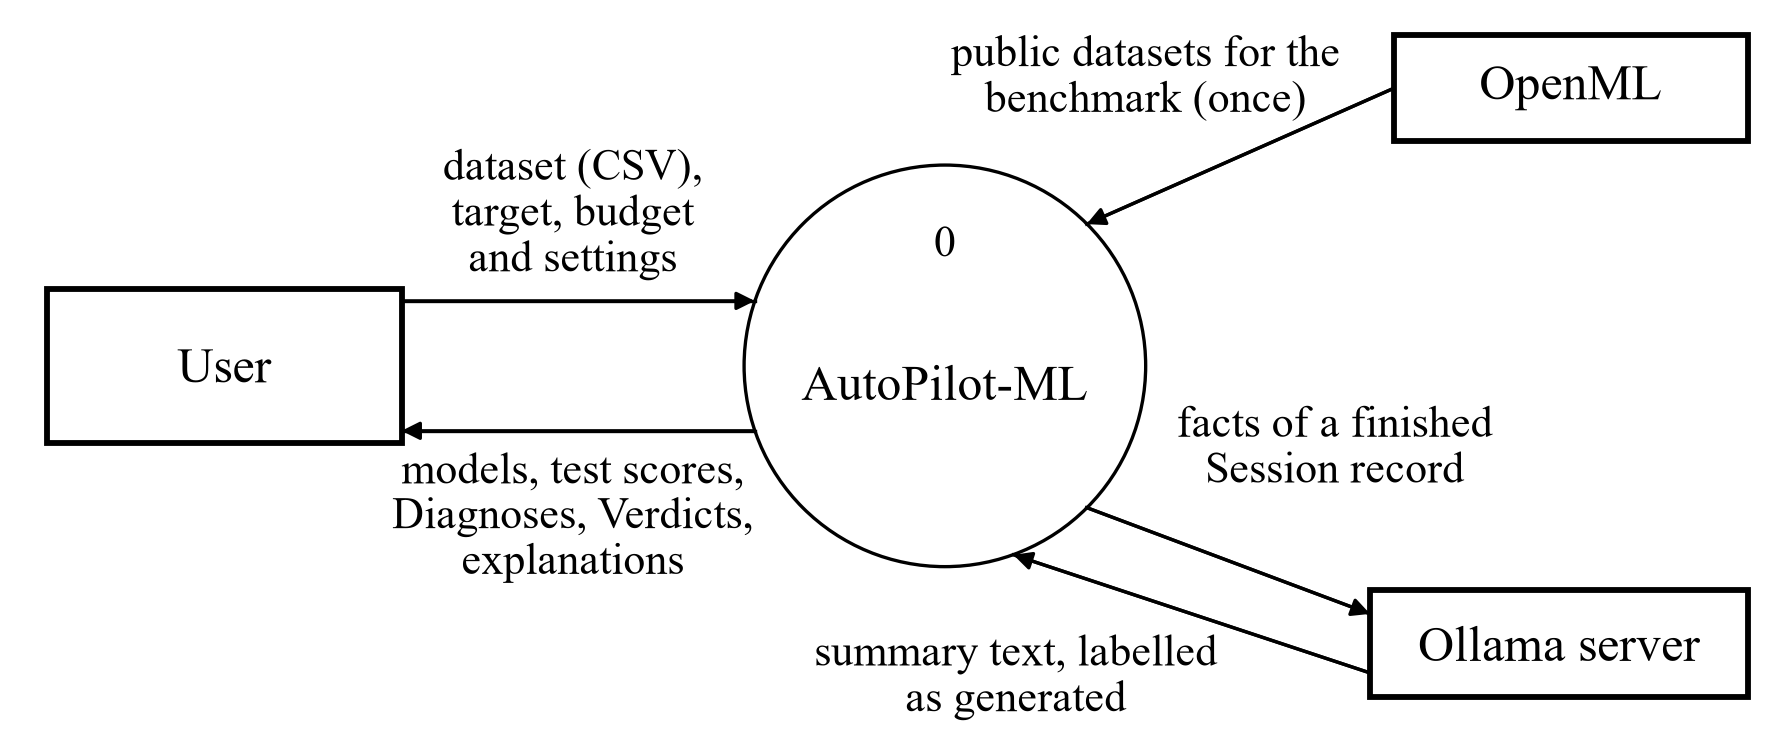
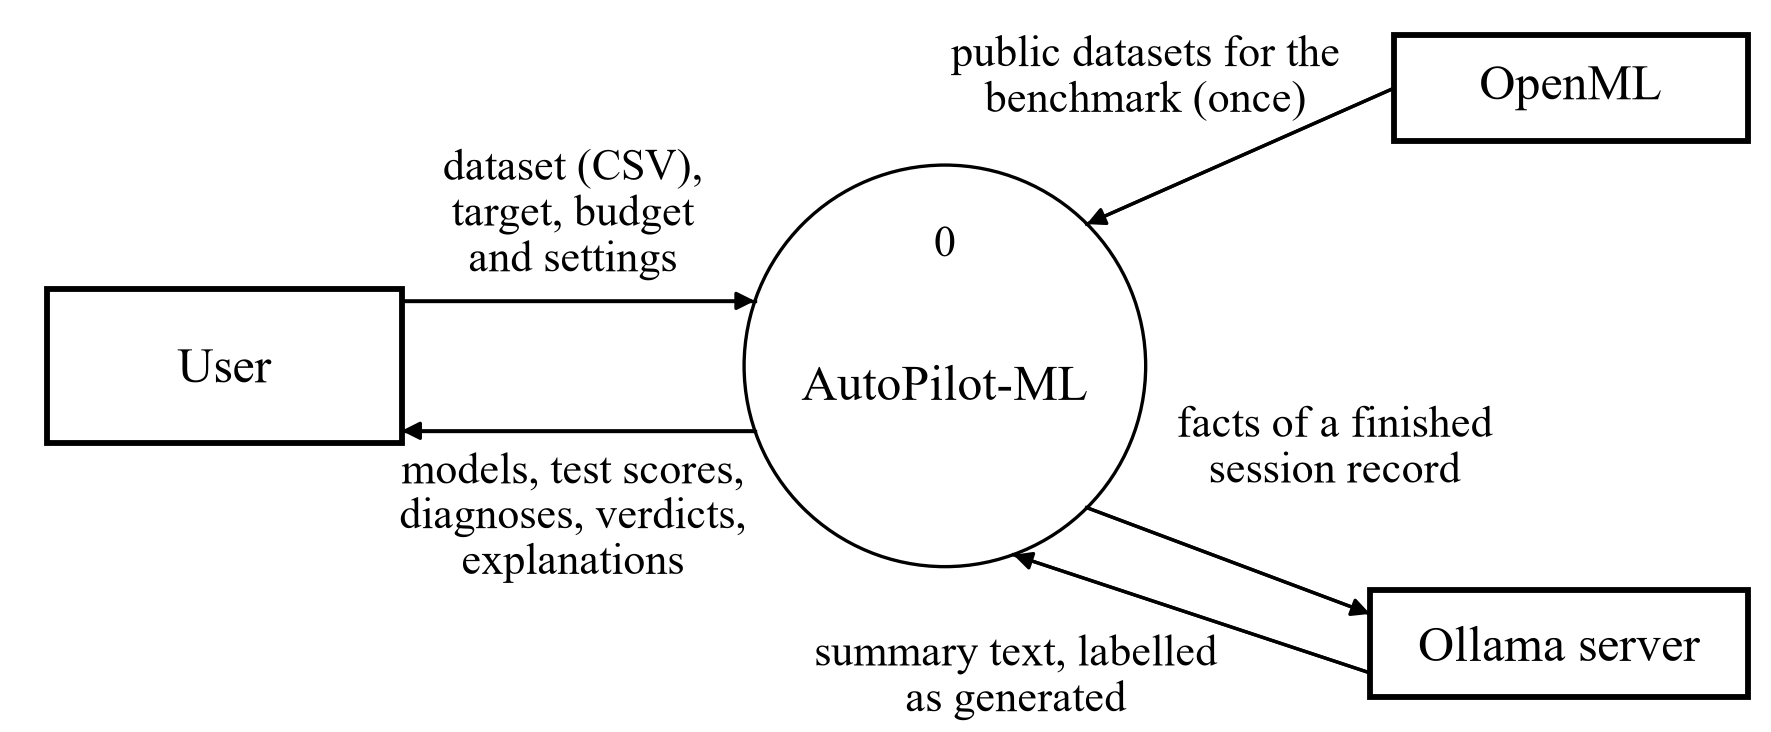
docs(report): redraw the diagrams with the report's terms and tighter layouts
Labels use the same words as the text (setup, session folds, Strategy Engine), the flowchart, block diagram and level 1 DFD are shorter so chapter 6 fits on three pages, and the time chart names the systems at 12 pt.

Changed region(s): [[0.2174, 0.6612, 0.4348, 0.7213], [0.6832, 0.6311, 0.8385, 0.6612]]

diff --git a/scripts/report/report_figures.py b/scripts/report/report_figures.py
@@ -36,12 +36,12 @@ plt.rcParams.update({
 SYSTEM_NAMES = {
     "flaml": "FLAML alone", "autopilot_full": "AutoPilot-ML full", "autopilot_rules": "AutoPilot-ML rules",
     "autogluon": "AutoGluon", "manual": "Manual LightGBM", "random_choice": "Random order",
-    "no_critic": "Without Critic", "no_resource_manager": "Without Resource_Manager",
+    "no_critic": "Without Critic", "no_resource_manager": "Without Resource Manager",
 }
 SHORT_NAMES = {
     "flaml": "FLAML alone", "autopilot_full": "AutoPilot full", "autopilot_rules": "AutoPilot rules",
     "autogluon": "AutoGluon", "manual": "Manual LightGBM", "random_choice": "Random order",
-    "no_critic": "No Critic", "no_resource_manager": "No Resource_Manager",
+    "no_critic": "No Critic", "no_resource_manager": "No Resource Manager",
 }
 DATASETS = ["pc4", "cylinder-bands", "segment", "MiceProtein", "energy_efficiency", "solar_flare"]
 
@@ -124,19 +124,19 @@ class Canvas:
 
 def fig_loop() -> None:
     c = Canvas(15.5, 7.7)
-    c.box(12.85, 6.85, 4.8, 1.2, "Resource_Manager", "budgets and stop rules")
-    c.box(7.75, 5.7, 5.0, 1.3, "Search a Setup", "FLAML, used unchanged", fill=GREY)
-    c.box(12.85, 4.0, 4.8, 1.3, "Assess", "refits on 15 Session_Folds")
+    c.box(12.85, 6.85, 4.8, 1.2, "Resource Manager", "budgets and stop rules")
+    c.box(7.75, 5.7, 5.0, 1.3, "Search a setup", "FLAML, used unchanged", fill=GREY)
+    c.box(12.85, 4.0, 4.8, 1.3, "Assess", "refits on 15 session folds")
     c.box(12.85, 1.1, 4.8, 1.3, "Judge", "keep, keep_simpler, discard")
     c.box(2.65, 1.1, 4.8, 1.3, "Diagnose", "Critic, 14 kinds")
-    c.box(2.65, 4.0, 4.8, 1.3, "Propose a change", "Strategy_Engine")
-    c.box(7.75, 2.75, 4.4, 1.3, "Experiment_Memory", "changes, effects and costs")
+    c.box(2.65, 4.0, 4.8, 1.3, "Propose a change", "Strategy Engine")
+    c.box(7.75, 2.75, 4.4, 1.3, "Experiment Memory", "changes, effects and costs")
     c.line([(2.65, 4.65), (2.65, 5.7), (5.25, 5.7)], "next change", (2.8, 5.85), ha="left")
     c.line([(10.25, 5.7), (12.85, 5.7), (12.85, 4.65)], "best\nconfiguration", (13.0, 5.2), ha="left",
            va="center")
     c.line([(12.85, 3.35), (12.85, 1.75)], "fold scores", (13.0, 2.55), ha="left", va="center")
-    c.line([(10.45, 1.1), (5.05, 1.1)], "if kept: the new Accepted_Setup", (7.75, 0.85), va="top")
-    c.line([(2.65, 1.75), (2.65, 3.35)], "Diagnoses", (2.8, 2.55), ha="left", va="center")
+    c.line([(10.45, 1.1), (5.05, 1.1)], "if kept: the new accepted setup", (7.75, 0.85), va="top")
+    c.line([(2.65, 1.75), (2.65, 3.35)], "diagnoses", (2.8, 2.55), ha="left", va="center")
     c.line([(10.9, 1.75), (9.95, 2.35)], "record", (10.55, 2.25), dashed=True, ha="left")
     c.line([(5.55, 3.15), (5.05, 3.55)], "past effects", (5.7, 3.55), dashed=True, ha="left")
     c.line([(10.45, 6.85), (9.65, 6.35)], "budget", (10.0, 6.9), dashed=True, ha="right")
@@ -168,9 +168,9 @@ def fig_split() -> None:
     ax = c.ax
     left, right, split = 0.4, 15.1, 11.9
     c.box((left + right) / 2, 5.9, right - left, 0.8, "Dataset D (the rows with a target)", rounded=False)
-    c.box((left + split) / 2, 4.6, split - left - 0.1, 0.8, "Training_Part: 80% of the rows", rounded=False,
+    c.box((left + split) / 2, 4.6, split - left - 0.1, 0.8, "Training part: 80% of the rows", rounded=False,
           fill=LIGHT)
-    c.box((split + right) / 2 + 0.05, 4.6, right - split - 0.1, 0.8, "Test_Part: 20%", rounded=False, fill=GREY)
+    c.box((split + right) / 2 + 0.05, 4.6, right - split - 0.1, 0.8, "Test part: 20%", rounded=False, fill=GREY)
     c.line([(6.15, 5.5), (6.15, 5.0)], "seeded, stratified split", (6.35, 5.25), ha="left", va="center")
     c.line([(13.5, 5.5), (13.5, 5.0)])
     cell_w = (split - left - 1.9) / 5
@@ -183,7 +183,7 @@ def fig_split() -> None:
             ax.add_patch(FancyBboxPatch((x0 + 0.04, y - 0.28), cell_w - 0.08, 0.56, boxstyle="square,pad=0",
                                         fc=GREY if val else "white", ec="black", lw=0.6))
             c.text(x0 + cell_w / 2, y, f"part {k + 1}", TICK)
-    c.text(left, 0.55, "15 Session_Folds: in each fold one part gives the validation rows (grey in this "
+    c.text(left, 0.55, "15 session folds: in each fold one part gives the validation rows (grey in this "
            "example) and the\nother four parts the training rows. The Assessor, the Critic and the Judge use "
            "only these folds.", ha="left")
     c.text((split + right) / 2 + 0.05, 2.65, "Used once, at\nthe end, to score\nthe first and\nthe final model")
@@ -191,51 +191,53 @@ def fig_split() -> None:
 
 
 def fig_block() -> None:
-    c = Canvas(15.5, 14.1)
+    c = Canvas(15.5, 12.85)
     x0, x1 = 0.7, 15.45
-    w3, w4, h = 4.65, 3.45, 0.98
+    w3, w4, h = 4.65, 3.45, 0.96
+    pitch, head, gap = 1.08, 0.44, 0.4  # row pitch, band title height and gap between bands (cm)
     xs3 = [x0 + 0.15 + w3 / 2 + i * (w3 + 0.3) for i in range(3)]
     xs4 = [x0 + 0.15 + w4 / 2 + i * (w4 + 0.25) for i in range(4)]
 
     def band(top, title, rows):
-        height = 0.5 + rows * 1.18 + 0.05
+        height = head + rows * pitch + 0.04
         c.rect((x0 + x1) / 2, top - height / 2, x1 - x0, height, fill="none", rounded=False, lw=0.6, ls=(0, (3, 2)))
-        c.text(x0 + 0.15, top - 0.25, title, ha="left", style="italic")
-        return [top - 0.5 - 0.56 - i * 1.18 for i in range(rows)], top - height
+        c.text(x0 + 0.15, top - head / 2, title, ha="left", style="italic")
+        return [top - head - pitch / 2 - i * pitch for i in range(rows)], top - height
 
-    ys, bottom = band(14.05, "User interfaces (built in this project)", 1)
+    def link(bottom, label):
+        c.line([(7.75, bottom - 0.02), (7.75, bottom - gap + 0.02)], label, (7.95, bottom - gap / 2),
+               ha="left", va="center")
+
+    ys, bottom = band(12.8, "User interfaces (built in this project)", 1)
     for x, (n, s) in zip(xs3, [("Dashboard", "Streamlit pages"), ("Command line", "scripts/*.py"),
                                ("Web API", "FastAPI, local only")]):
         c.box(x, ys[0], w3, h, n, s)
-    c.line([(7.75, bottom - 0.02), (7.75, bottom - 0.43)], "start, stop and read Sessions", (7.95, bottom - 0.22),
-           ha="left", va="center")
-    ys, bottom = band(bottom - 0.45, "Session layer: the autonomous loop (built in this project)", 3)
-    rows = [[("Session loop", "runs the Experiments"), ("Critic", "14 kinds of Diagnosis"),
-             ("Strategy_Engine", "12 Strategies")],
+    link(bottom, "start, stop and read sessions")
+    ys, bottom = band(bottom - gap, "Session layer: the autonomous loop (built in this project)", 3)
+    rows = [[("Session loop", "runs the experiments"), ("Critic", "14 kinds of diagnosis"),
+             ("Strategy Engine", "12 strategies")],
             [("Judge", "corrected t-test"), ("Assessor", "refits on 15 folds"),
-             ("Resource_Manager", "budgets, stop rules")],
-            [("Planner", "the first Setup"), ("Experiment_Memory", "the learned order"),
-             ("Data_Steps", "fitted in each fold")]]
+             ("Resource Manager", "budgets, stop rules")],
+            [("Planner", "the first setup"), ("Experiment Memory", "the learned order"),
+             ("Data steps", "fitted in each fold")]]
     for y, row in zip(ys, rows):
         for x, (n, s) in zip(xs3, row):
             c.box(x, y, w3, h, n, s)
     session_mid = (ys[0] + ys[-1]) / 2
-    c.line([(7.75, bottom - 0.02), (7.75, bottom - 0.43)], "search, refit, profile, explain",
-           (7.95, bottom - 0.22), ha="left", va="center")
-    ys, bottom = band(bottom - 0.45, "Experiment layer: one search and its evaluation (built in this project)", 2)
+    link(bottom, "search, refit, profile, explain")
+    ys, bottom = band(bottom - gap, "Experiment layer: one search and its evaluation (built in this project)", 2)
     rows = [[("AutoML runner", "one FLAML search"), ("Profiler", "and task detector"),
              ("Evaluator", "metrics, importance")],
             [("Tracker", "records, MLflow runs"), ("Explainer", "SHAP values"), ("Narrator", "local summaries")]]
     for y, row in zip(ys, rows):
         for x, (n, s) in zip(xs3, row):
             c.box(x, y, w3, h, n, s)
-    c.line([(7.75, bottom - 0.02), (7.75, bottom - 0.43)], "search, train, score", (7.95, bottom - 0.22),
-           ha="left", va="center")
-    ys, bottom = band(bottom - 0.45, "Libraries used unchanged", 1)
+    link(bottom, "search, train, score")
+    ys, bottom = band(bottom - gap, "Libraries used unchanged", 1)
     for x, (n, s) in zip(xs4, [("FLAML", "search engine"), ("scikit-learn", "imbalanced-learn"),
                                ("LightGBM", "and XGBoost"), ("SHAP", "and Ollama")]):
         c.box(x, ys[0], w4, h, n, s, fill=GREY)
-    ys, bottom = band(bottom - 0.45, "Storage (files on this machine)", 1)
+    ys, bottom = band(bottom - gap, "Storage (files on this machine)", 1)
     for x, (n, s) in zip(xs4, [("JSON records", "experiments/"), ("Model files", "models/"),
                                ("MLflow runs", "mlruns/"), ("Memory file", "memory.jsonl")]):
         c.box(x, ys[0], w4, h, n, s, fill=LIGHT)
@@ -251,30 +253,30 @@ def fig_dfd0() -> None:
     c.entity(13.3, 5.45, 3.0, 0.9, "OpenML")
     c.entity(13.2, 0.75, 3.2, 0.9, "Ollama server")
     c.line([(3.4, 3.65), (6.39, 3.65)], "dataset (CSV),\ntarget, budget\nand settings", (4.85, 3.8))
-    c.line([(6.39, 2.55), (3.4, 2.55)], "models, test scores,\nDiagnoses, Verdicts,\nexplanations", (4.85, 2.4),
+    c.line([(6.39, 2.55), (3.4, 2.55)], "models, test scores,\ndiagnoses, verdicts,\nexplanations", (4.85, 2.4),
            va="top")
     c.line([(11.8, 5.45), (9.2, 4.3)], "public datasets for the\nbenchmark (once)", (9.7, 5.15))
-    c.line([(9.2, 1.9), (11.6, 1.0)], "facts of a finished\nSession record", (11.3, 2.05))
+    c.line([(9.2, 1.9), (11.6, 1.0)], "facts of a finished\nsession record", (11.3, 2.05))
     c.line([(11.6, 0.5), (8.58, 1.5)], "summary text, labelled\nas generated", (8.6, 0.85), va="top")
     c.save("fig_dfd0.png")
 
 
 def fig_dfd1() -> None:
-    c = Canvas(15.5, 11.2)
+    c = Canvas(15.5, 10.0)
     r = 1.12
     xl, xm, xr = 2.3, 7.6, 12.9
-    y1, y2, y3, y4 = 10.15, 6.95, 3.55, 0.8
+    y1, y2, y3, y4 = 9.0, 6.1, 3.1, 0.75
     xb, yb, rb = 11.9, y1 - 0.15, 1.05  # process 5.0
     c.entity(xl, y1, 2.8, 0.9, "User")
     c.store(7.0, y1, 4.0, "D1", "Dataset (CSV)")
     c.circle(xb, yb, rb, "5.0", "Manage\nbudget")
     c.circle(xl, y2, r, "1.0", "Prepare\ndata")
-    c.circle(xm, y2, r, "2.0", "Run\nExperiment")
+    c.circle(xm, y2, r, "2.0", "Run\nexperiment")
     c.circle(xr, y2, r, "3.0", "Judge")
     c.circle(xl, y3, r, "6.0", "Final\nevaluation")
     c.store(xm, y3, 4.4, "D2", "Records, models")
     c.circle(xr, y3, r, "4.0", "Diagnose,\npropose")
-    c.store(12.3, y4, 5.0, "D3", "Experiment_Memory")
+    c.store(12.3, y4, 5.0, "D3", "Experiment Memory")
     d, db = 0.707 * r, 0.707 * rb
 
     def along(p0, p1, t, dx=0.0, dy=0.0):
@@ -284,22 +286,22 @@ def fig_dfd1() -> None:
            ha="right", va="center")
     p0, p1 = (5.0, y1), (xl + d, y2 + d)
     c.line([p0, p1], "rows", along(p0, p1, 0.45, dx=0.2), ha="left", va="center")
-    c.line([(xl + r, y2), (xm - r, y2)], "Training_Part,\nfolds, first Setup", ((xl + xm) / 2, y2 + 0.15))
-    c.line([(xm + r, y2), (xr - r, y2)], "fold scores of\nboth Setups", ((xm + xr) / 2, y2 + 0.15))
-    c.line([(xr, y2 - r), (xr, y3 + r)], "kept Setup", (xr + 0.2, (y2 + y3) / 2), ha="left", va="center")
+    c.line([(xl + r, y2), (xm - r, y2)], "training part,\nfolds, first setup", ((xl + xm) / 2, y2 + 0.15))
+    c.line([(xm + r, y2), (xr - r, y2)], "fold scores of\nboth setups", ((xm + xr) / 2, y2 + 0.15))
+    c.line([(xr, y2 - r), (xr, y3 + r)], "kept setup", (xr + 0.2, (y2 + y3) / 2), ha="left", va="center")
     p0, p1 = (xr - d, y3 + d), (xm + d, y2 - d)
-    c.line([p0, p1], "changed Setup", along(p0, p1, 0.4, dy=-0.3), va="top")
+    c.line([p0, p1], "changed setup", along(p0, p1, 0.55, dy=-0.3), va="top")
     p0, p1 = (xr - d, y2 + d), (xb + 0.2, yb - rb + 0.02)
     c.line([p0, p1], "step cost", along(p0, p1, 0.5, dx=0.25), ha="left", va="center")
     p0, p1 = (xb - db, yb - db), (xm + d, y2 + d)
     c.line([p0, p1], "search budget", along(p0, p1, 0.55, dx=-0.2, dy=0.3), va="bottom")
     c.line([(xm, y2 - r), (xm, y3 + 0.375)], "models and\nrecords", (xm - 0.2, (y2 - r + y3 + 0.375) / 2),
            ha="right", va="center")
-    c.line([(xl, y2 - r), (xl, y3 + r)], "Test_Part", (xl + 0.2, (y2 + y3) / 2), ha="left", va="center")
+    c.line([(xl, y2 - r), (xl, y3 + r)], "test part", (xl + 0.2, (y2 + y3) / 2), ha="left", va="center")
     c.line([(xm - 2.2, y3), (xl + r, y3)], "first and\nfinal model", ((xm - 2.2 + xl + r) / 2, y3 + 0.15))
     c.line([(xl - r, y3), (0.4, y3), (0.4, y1), (xl - 1.4, y1)], "test scores and explanations",
            (0.68, (y3 + y1) / 2), rotation=90, va="center")
-    c.line([(xr + r, y2), (15.15, y2), (15.15, y4), (14.8, y4)], "Verdict records", (14.92, (y2 + y4) / 2 - 0.4),
+    c.line([(xr + r, y2), (15.15, y2), (15.15, y4), (14.8, y4)], "verdict records", (14.92, (y2 + y4) / 2 - 0.4),
            rotation=90, va="center")
     c.line([(xr, y4 + 0.375), (xr, y3 - r)], "past effects", (xr - 0.2, (y4 + 0.375 + y3 - r) / 2), ha="right",
            va="center")
@@ -307,32 +309,51 @@ def fig_dfd1() -> None:
 
 
 def fig_flow() -> None:
-    c = Canvas(12.0, 19.4)
-    x, w = 5.3, 8.0
-    c.terminal(x, 18.75, 6.8, 0.9, "Start: dataset, target, budget")
-    c.box(x, 17.35, w, 1.2, "Split and make the folds", "Training_Part, Test_Part, 15 Session_Folds")
-    c.box(x, 15.8, w, 1.2, "Search the first Setup", "35% of the time, Training_Part only")
-    c.box(x, 14.25, w, 1.2, "Assess and diagnose", "refits on the folds, then the Critic")
-    c.box(x, 12.7, w, 1.2, "Propose changes not tried yet", "rule table, ordered by the selector")
-    c.diamond(x, 10.95, 3.9, 1.7, "Stop?")
-    c.box(x, 9.2, w, 1.2, "Search the candidate", "the next budget, warm started")
-    c.box(x, 7.65, w, 1.2, "Assess the candidate", "on the same 15 folds")
-    c.diamond(x, 5.85, 4.2, 1.8, "Judge:\nkept?")
-    c.box(2.9, 3.8, 4.4, 1.2, "Accept the candidate", "then diagnose it")
-    c.box(8.3, 3.8, 3.6, 1.2, "Keep the", "Accepted_Setup")
-    c.box(x, 2.15, w, 1.0, "Write the step's record and the memory")
-    for y0, y1 in ((18.3, 17.95), (16.75, 16.4), (15.2, 14.85), (13.65, 13.3), (12.1, 11.8), (8.6, 8.25),
-                   (7.05, 6.75)):
-        c.line([(x, y0), (x, y1)])
-    c.line([(x, 10.1), (x, 9.8)], "no", (x + 0.2, 9.95), ha="left", va="center")
-    c.line([(x - 2.1, 5.85), (2.9, 5.85), (2.9, 4.4)], "yes", (3.05, 6.0), ha="left")
-    c.line([(x + 2.1, 5.85), (8.3, 5.85), (8.3, 4.4)], "no", (7.55, 6.0), ha="left")
-    c.line([(2.9, 3.2), (2.9, 2.65)])
-    c.line([(8.3, 3.2), (8.3, 2.65)])
-    c.line([(x - w / 2, 2.15), (0.7, 2.15), (0.7, 12.7), (x - w / 2, 12.7)], "next step", (0.42, 7.5),
-           rotation=90, va="center")
-    c.line([(x + 1.95, 10.95), (10.9, 10.95), (10.9, 1.05), (x + 2.6, 1.05)], "yes", (7.5, 11.1), ha="left")
-    c.terminal(x, 1.05, 5.2, 0.9, "Final_Evaluation, then end")
+    """Flowchart of one session, laid out from the top with fixed gaps so that it fits a page with its text."""
+    width, height = 12.0, 17.2
+    c = Canvas(width, height)
+    x, w, h = 5.3, 8.0, 1.05
+    shapes, top = {}, height - 0.1
+
+    def place(name, size, gap=0.35):
+        nonlocal top
+        shapes[name] = (top - size / 2, size)
+        top -= size + gap
+
+    for name, size, gap in (("start", 0.8, 0.35), ("split", h, 0.35), ("first", h, 0.35), ("assess", h, 0.35),
+                            ("propose", h, 0.35), ("stop", 1.5, 0.4), ("search", h, 0.35), ("check", h, 0.35),
+                            ("judge", 1.6, 0.45), ("branch", h, 0.4), ("write", 0.9, 0.3), ("end", 0.8, 0)):
+        place(name, size, gap)
+    y = {k: v[0] for k, v in shapes.items()}
+    edge = {k: (v[0] + v[1] / 2, v[0] - v[1] / 2) for k, v in shapes.items()}  # (top, bottom)
+    c.terminal(x, y["start"], 6.8, 0.8, "Start: dataset, target, budget")
+    c.box(x, y["split"], w, h, "Split and make the folds", "training part, test part, 15 session folds")
+    c.box(x, y["first"], w, h, "Search the first setup", "35% of the time, training part only")
+    c.box(x, y["assess"], w, h, "Assess and diagnose", "refits on the folds, then the Critic")
+    c.box(x, y["propose"], w, h, "Propose changes not tried yet", "rule table, ordered by the selector")
+    c.diamond(x, y["stop"], 3.9, 1.5, "Stop?")
+    c.box(x, y["search"], w, h, "Search the candidate", "the next budget, warm started")
+    c.box(x, y["check"], w, h, "Assess the candidate", "on the same 15 folds")
+    c.diamond(x, y["judge"], 4.2, 1.6, "Judge:\nkept?")
+    c.box(2.9, y["branch"], 4.4, h, "Accept the candidate", "then diagnose it")
+    c.box(8.3, y["branch"], 3.6, h, "Keep the", "accepted setup")
+    c.box(x, y["write"], w, 0.9, "Write the step's record and the memory")
+    c.terminal(x, y["end"], 5.2, 0.8, "Final evaluation, then end")
+    for a, b in (("start", "split"), ("split", "first"), ("first", "assess"), ("assess", "propose"),
+                 ("propose", "stop"), ("search", "check"), ("check", "judge")):
+        c.line([(x, edge[a][1]), (x, edge[b][0])])
+    c.line([(x, edge["stop"][1]), (x, edge["search"][0])], "no", (x + 0.2, (edge["stop"][1] + edge["search"][0]) / 2),
+           ha="left", va="center")
+    c.line([(x - 2.1, y["judge"]), (2.9, y["judge"]), (2.9, edge["branch"][0])], "yes", (3.05, y["judge"] + 0.15),
+           ha="left")
+    c.line([(x + 2.1, y["judge"]), (8.3, y["judge"]), (8.3, edge["branch"][0])], "no", (7.55, y["judge"] + 0.15),
+           ha="left")
+    c.line([(2.9, edge["branch"][1]), (2.9, edge["write"][0])])
+    c.line([(8.3, edge["branch"][1]), (8.3, edge["write"][0])])
+    c.line([(x - w / 2, y["write"]), (0.7, y["write"]), (0.7, y["propose"]), (x - w / 2, y["propose"])],
+           "next step", (0.42, (y["write"] + y["propose"]) / 2), rotation=90, va="center")
+    c.line([(x + 1.95, y["stop"]), (10.9, y["stop"]), (10.9, y["end"]), (x + 2.6, y["end"])], "yes",
+           (7.5, y["stop"] + 0.15), ha="left")
     c.save("fig_flow.png")
 
 
@@ -390,11 +411,11 @@ def fig_scores() -> None:
         ax.set_title(ds, fontsize=NAME)
         ax.set_xticks([120, 300])
         ax.set_xlim(90, 330)
-        ax.set_ylabel(f"test {metric}", fontsize=TEXT)
+        ax.set_ylabel(f"Test {metric}", fontsize=TEXT)
         ax.tick_params(length=2)
         ax.grid(axis="y", lw=0.3, color="#bfbfbf")
     for ax in axes[1]:
-        ax.set_xlabel("budget (s)", fontsize=TEXT)
+        ax.set_xlabel("Budget (s)", fontsize=TEXT)
     handles, labels = axes[0, 0].get_legend_handles_labels()
     fig.legend(handles, labels, loc="lower center", ncol=3, frameon=False, fontsize=TEXT,
                handlelength=2.4, columnspacing=1.4)
@@ -495,14 +516,15 @@ def fig_time() -> None:
     ax.barh(ys, t300.mean_wall_seconds, color=[colours[s] for s in order], edgecolor="black", lw=0.5,
             height=0.6)
     for yy, v in zip(ys, t300.mean_wall_seconds):
-        ax.text(v + 5, yy, f"{v:.1f} s", ha="left", va="center", fontsize=TICK)
+        ax.text(v + 5, yy, f"{v:.1f} s", ha="left", va="center", fontsize=TEXT)
     ax.axvline(300, color="black", lw=0.8, ls="--")
     ax.set_yticks(ys)
-    ax.set_yticklabels([SYSTEM_NAMES[s] for s in order], fontsize=TICK)
-    ax.set_xlabel("mean wall time per run in seconds (budget 300 s, dashed line)", fontsize=TEXT)
+    ax.set_yticklabels([SYSTEM_NAMES[s] for s in order], fontsize=NAME)  # the systems are the labels: 12 pt
+    ax.set_xlabel("Mean wall time per run in seconds (budget 300 s, dashed line)", fontsize=TEXT)
     ax.set_xlim(0, 365)
-    ax.tick_params(length=2)
-    fig.subplots_adjust(left=0.24, right=0.97, top=0.96, bottom=0.21)
+    ax.tick_params(length=2, labelsize=TICK)
+    ax.tick_params(axis="y", labelsize=NAME)
+    fig.subplots_adjust(left=0.27, right=0.97, top=0.96, bottom=0.21)
     fig.savefig(OUT / "fig_time.png", dpi=300)
     plt.close(fig)
 
